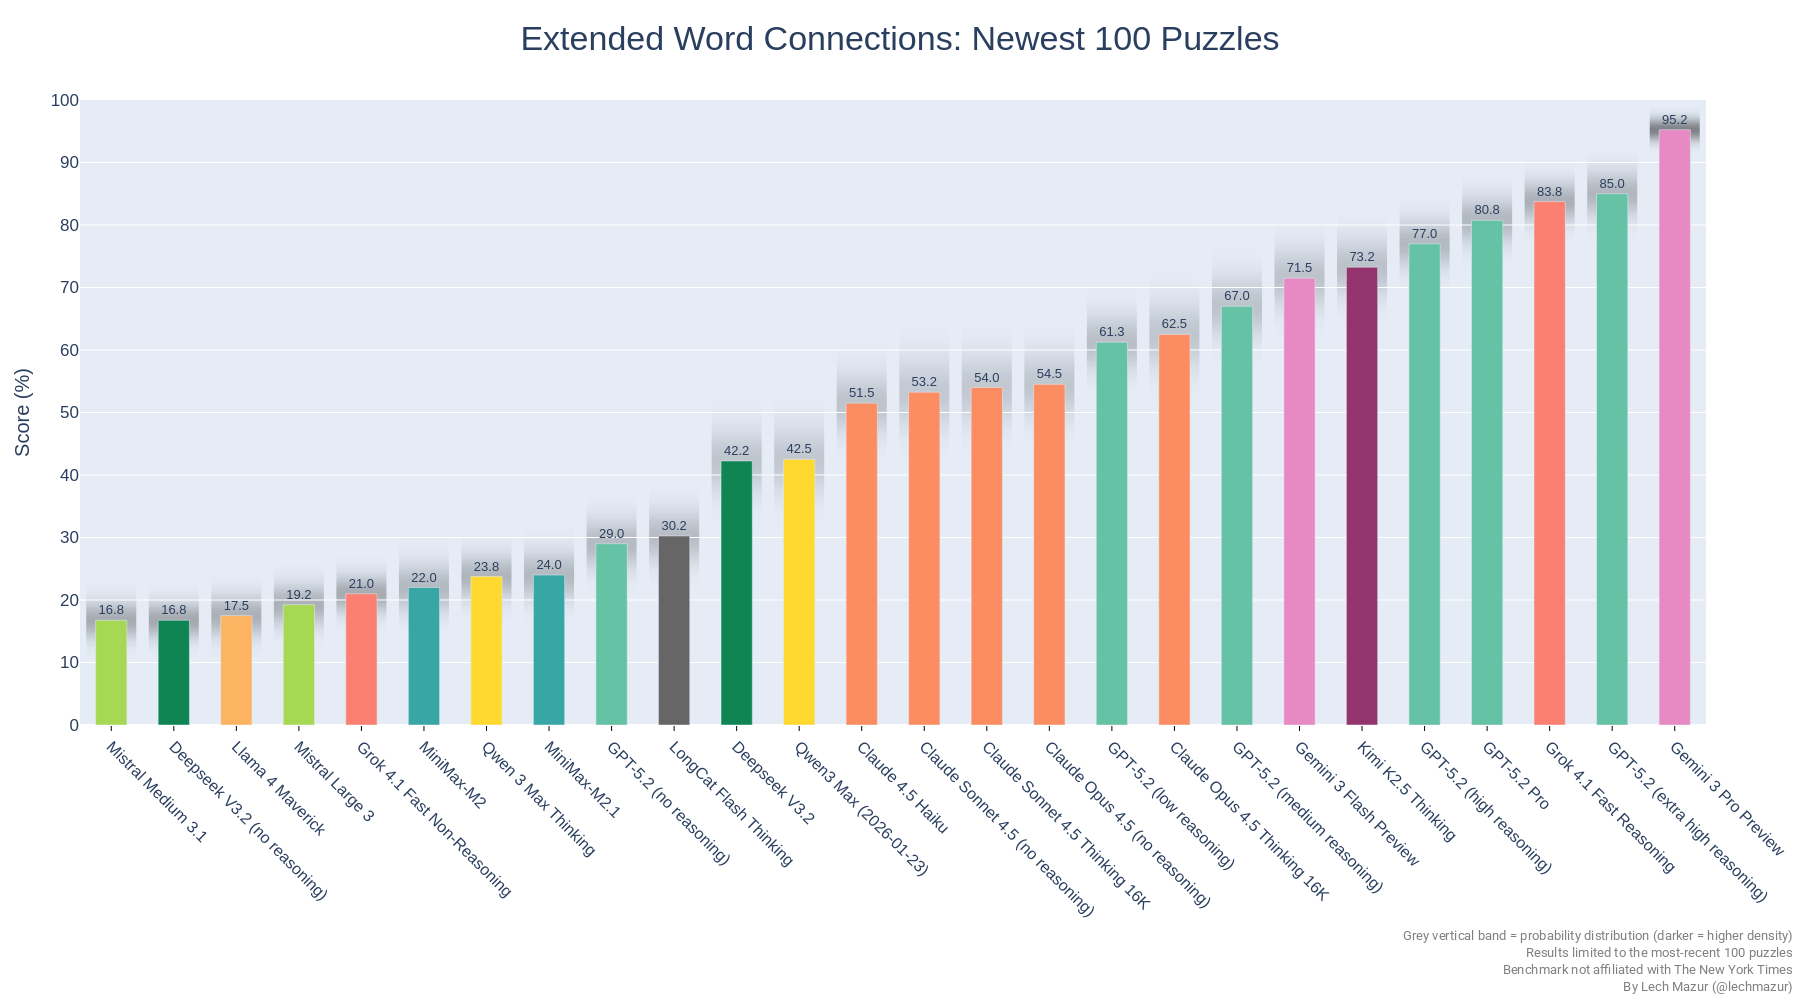
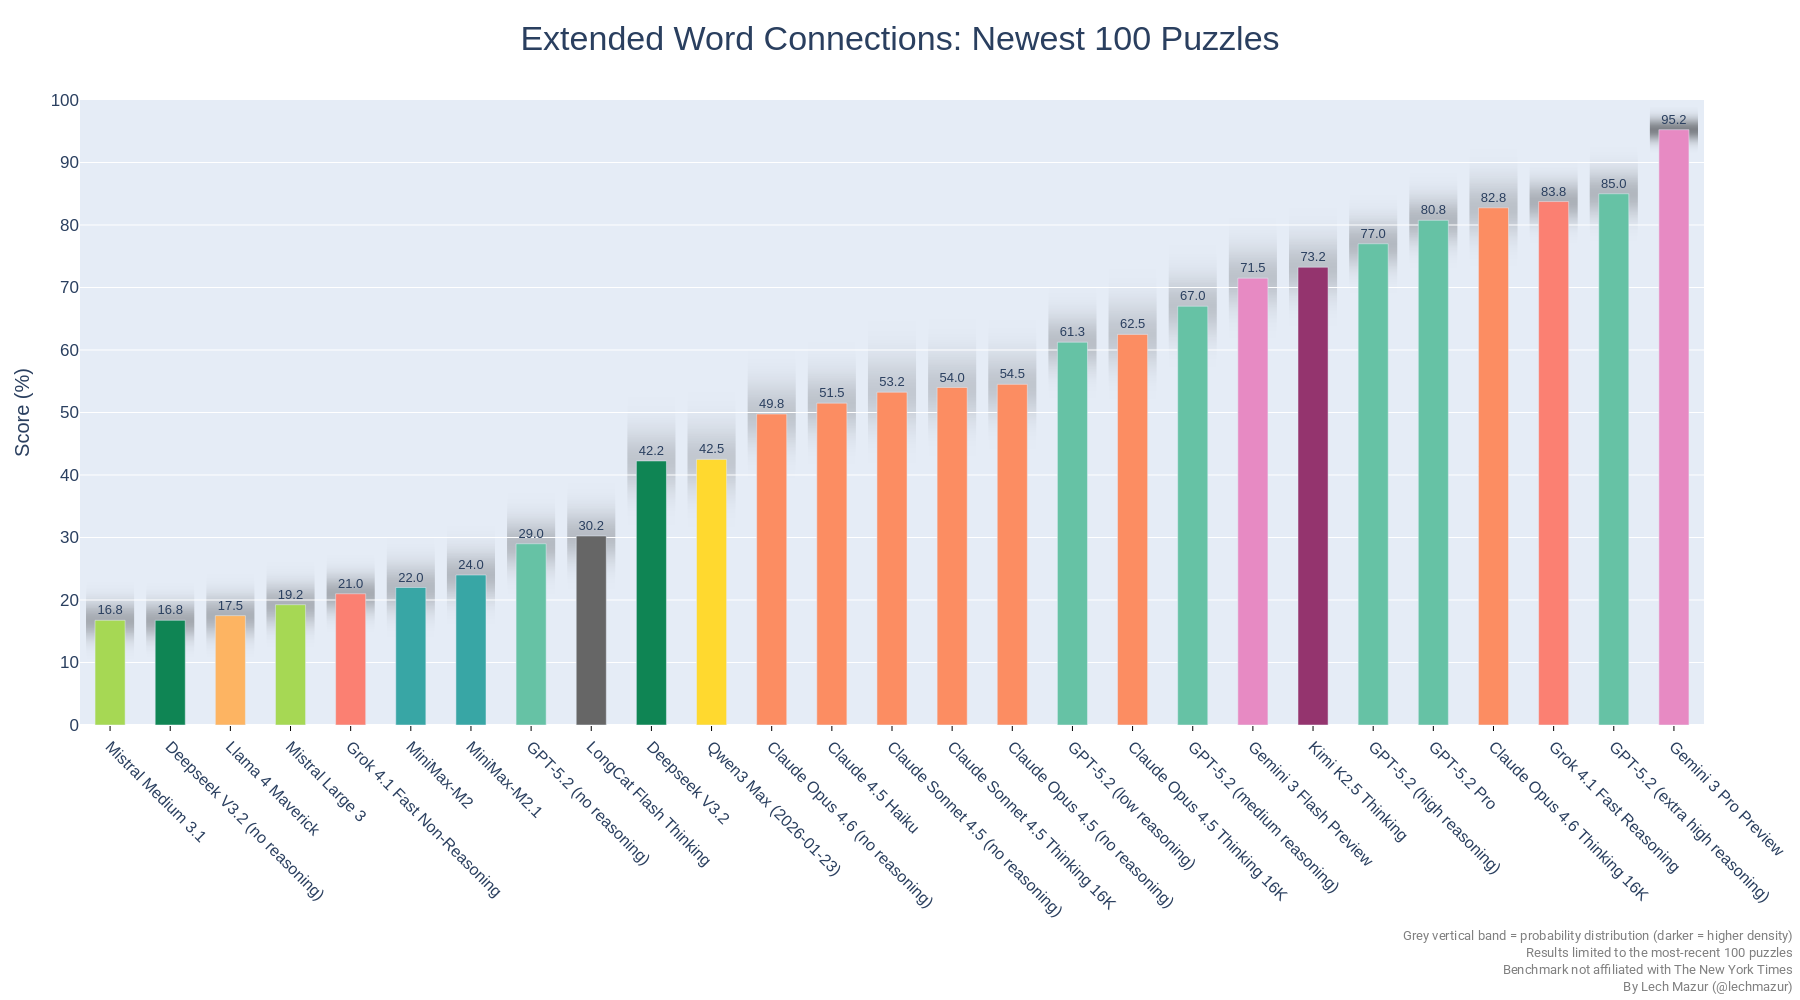
Claude Opus 4.6 added

diff --git a/README.md b/README.md
@@ -12,6 +12,8 @@ As of Feb 4, 2025, there is a new version of the benchmark. The standard NYT Con
 
 |Rank|Model|Score %|#Puzzles|
 |---:|-----|------:|-------:|
+|Rank|Model|Score %|#Puzzles|
+|---:|-----|------:|-------:|
 |1|Gemini 3 Pro Preview|96.3|940|
 |2|Sherlock Think Alpha|92.4|759|
 |3|Grok 4 Fast Reasoning|92.1|759|
@@ -24,130 +26,127 @@ As of Feb 4, 2025, there is a new version of the benchmark. The standard NYT Con
 |10|GPT-5.2 Pro|85.7|940|
 |11|GPT-5 Pro|83.9|759|
 |12|o1-pro (medium reasoning)|82.5|651|
-|13|o3 (high reasoning)|78.6|759|
-|14|Kimi K2.5 Thinking|78.3|940|
-|15|GPT-5.2 (high reasoning)|77.5|940|
-|16|GPT-5 (high reasoning)|77.0|759|
-|17|o4-mini (high reasoning)|73.6|759|
-|18|o3 (medium reasoning)|73.0|759|
-|19|GPT-5 (medium reasoning)|72.2|759|
-|20|GPT-5.2 (medium reasoning)|71.4|940|
-|21|o1 (medium reasoning)|70.8|651|
-|22|GPT-5.1 (high reasoning)|69.9|759|
-|23|o4-mini (medium reasoning)|68.8|651|
-|24|GPT-5 mini (medium reasoning)|66.9|759|
-|25|GPT-5.2 (low reasoning)|66.7|940|
-|26|GPT-5 (low reasoning)|65.4|759|
-|27|GPT-5.1 (medium reasoning)|62.7|759|
-|28|Claude Opus 4.5 Thinking 16K|62.6|940|
-|29|o3-mini (high reasoning)|61.4|651|
-|30|Claude Opus 4.5 (no reasoning)|60.3|940|
-|31|Claude Opus 4.1 Thinking 16K|58.8|759|
-|32|DeepSeek V3.1 Reasoner|57.7|759|
-|33|Gemini 2.5 Pro|57.6|759|
-|34|Kimi K2 Thinking 64K|57.3|924|
-|35|Qwen 3 235B A22B|54.3|759|
-|36|Gemini 2.5 Pro Exp 03-25|54.1|651|
-|37|GLM-4.7|53.6|360|
-|38|o3-mini (medium reasoning)|53.6|651|
-|39|Deepseek V3.2|50.2|940|
-|40|Claude Opus 4 Thinking 16K|49.7|759|
-|41|Claude Sonnet 4.5 Thinking 16K|49.3|940|
-|42|DeepSeek R1 05/28|48.6|759|
-|43|Claude Sonnet 4.5 (no reasoning)|47.4|940|
-|44|Qwen 3 235B A22B 25-07 Think|46.2|759|
-|45|Gemini 2.5 Pro Preview 05-06|42.5|651|
-|46|Qwen3 Max (2026-01-23)|41.8|940|
-|47|Claude Sonnet 4 Thinking 16K|40.3|759|
-|48|Claude Sonnet 4 Thinking 64K|39.6|651|
-|49|GPT-OSS-120B|38.7|759|
-|50|DeepSeek R1|38.6|651|
-|51|Claude Opus 4.1 (no reasoning)|37.1|759|
-|52|Qwen 3 30B A3B|36.6|759|
-|53|Qwen 3 32B|35.8|759|
-|54|Qwen 3 30B A3B 25-07 Thinking|35.5|759|
-|55|Claude Opus 4 (no reasoning)|34.4|759|
-|56|GPT-4.5 Preview|34.2|651|
-|57|Claude 3.7 Sonnet Thinking 16K|33.6|651|
-|58|Qwen 3 Next 80B A3B Thinking|32.9|759|
-|59|Qwen QwQ-32B 16K|31.4|651|
-|60|LongCat Flash Thinking|31.0|940|
-|61|Grok 3 Mini Beta (high)|30.2|759|
-|62|GLM-4.5|30.2|759|
-|63|GPT-5.2 (no reasoning)|28.1|940|
-|64|GPT-5 (minimal reasoning)|27.3|759|
-|65|MiniMax-M2|27.0|940|
-|66|o1-mini|26.9|651|
-|67|Claude Sonnet 4 (no reasoning)|26.6|759|
-|68|Grok 3 Mini Beta (low)|26.0|651|
-|69|Claude 4.5 Haiku|25.9|940|
-|70|Quasar Alpha|25.4|651|
-|71|Cohere Command A Reasoning 16K|25.3|759|
-|72|Gemini 2.5 Flash|25.2|759|
-|73|Sherlock Dash Alpha|25.1|759|
-|74|Grok 4.1 Fast Non-Reasoning|25.0|940|
-|75|Grok 4 Fast Non-Reasoning|24.9|759|
-|76|GPT-4o Mar 2025|24.5|759|
-|77|GLM-4.6|24.2|759|
-|78|Qwen 3 Max Thinking|24.1|940|
-|79|Qwen 3 Max Preview|23.9|759|
-|80|Kimi K2-0905|23.6|759|
-|81|Gemini 2.0 Flash Think Exp 01-21|23.1|649|
-|82|GPT-4.1|22.8|759|
-|83|Sonoma Dusk Alpha|22.8|759|
-|84|MiniMax-M2.1|22.7|940|
-|85|GPT-4o Feb 2025|22.7|651|
-|86|GPT-5.1 (no reasoning)|22.1|759|
-|87|Polaris Alpha|21.8|759|
-|88|Gemini 2.0 Pro Exp 02-05|21.7|651|
-|89|DeepSeek V3.1 Non-Think|21.6|759|
-|90|MiniMax-M1|21.3|688|
-|91|Kimi K2|19.8|759|
-|92|Qwen 3 235B A22B 25-07 Instruct|19.8|759|
-|93|Grok 3 Beta (no reasoning)|19.7|759|
-|94|Grok 2 12-12|19.2|651|
-|95|Gemini 1.5 Pro (Sept)|19.2|601|
-|96|Claude 3 Opus|19.2|650|
-|97|Claude 3.7 Sonnet|19.2|651|
-|98|Gemini 2.0 Flash|18.8|651|
-|99|GPT-4o 2024-11-20|18.7|601|
-|100|Llama 4 Maverick|18.4|940|
-|101|Qwen 2.5 Max|18.0|651|
-|102|Deepseek V3.2 (no reasoning)|17.8|940|
-|103|GPT-4o 2024-08-06|17.8|601|
-|104|Claude 3.5 Sonnet 2024-10-22|17.7|651|
-|105|Llama 4 Scout|17.4|759|
-|106|Mistral Large 3|17.2|940|
-|107|DeepSeek V3-0324|16.8|759|
-|108|Llama 3.1 405B|16.2|651|
-|109|Mistral Medium 3.1|15.5|940|
-|110|DeepSeek V3|15.1|651|
-|111|Llama 3.3 70B|15.1|651|
-|112|Baidu Ernie 4.5 300B A47B|14.8|759|
-|113|GPT-4.1 mini|14.4|759|
-|114|LongCat Flash|13.9|660|
-|115|MiniMax-Text-01|13.8|759|
-|116|Cohere Command A|13.1|759|
-|117|Mistral Large 2|12.4|759|
-|118|Gemma 2 27B|12.2|651|
-|119|Gemma 3 27B|11.6|759|
-|120|Mistral Medium 3|11.5|759|
-|121|Mistral Small 3.1|11.4|651|
-|122|Mistral Small 3.2|11.2|759|
-|123|Qwen 2.5 72B|10.5|759|
-|124|Claude 3.5 Haiku|10.0|759|
-|125|Amazon Nova Pro|9.9|759|
-|126|Microsoft Phi-4|9.9|759|
-|127|GPT-4o mini|9.7|759|
-|128|Mistral Small 3|8.9|601|
-|129|GPT-4.1 nano|8.1|759|
-|130|GLM4-32B-0414|7.6|759|
-|131|Claude 3 Haiku|2.2|601|
-
-
-
-
-
+|13|Claude Opus 4.6 Thinking 16K|81.7|940|
+|14|o3 (high reasoning)|78.6|759|
+|15|Kimi K2.5 Thinking|78.3|940|
+|16|GPT-5.2 (high reasoning)|77.5|940|
+|17|GPT-5 (high reasoning)|77.0|759|
+|18|o4-mini (high reasoning)|73.6|759|
+|19|o3 (medium reasoning)|73.0|759|
+|20|GPT-5 (medium reasoning)|72.2|759|
+|21|GPT-5.2 (medium reasoning)|71.4|940|
+|22|o1 (medium reasoning)|70.8|651|
+|23|GPT-5.1 (high reasoning)|69.9|759|
+|24|o4-mini (medium reasoning)|68.8|651|
+|25|GPT-5 mini (medium reasoning)|66.9|759|
+|26|GPT-5.2 (low reasoning)|66.7|940|
+|27|GPT-5 (low reasoning)|65.4|759|
+|28|GPT-5.1 (medium reasoning)|62.7|759|
+|29|Claude Opus 4.5 Thinking 16K|62.6|940|
+|30|o3-mini (high reasoning)|61.4|651|
+|31|Claude Opus 4.5 (no reasoning)|60.3|940|
+|32|Claude Opus 4.1 Thinking 16K|58.8|759|
+|33|DeepSeek V3.1 Reasoner|57.7|759|
+|34|Gemini 2.5 Pro|57.6|759|
+|35|Kimi K2 Thinking 64K|57.3|924|
+|36|Claude Opus 4.6 (no reasoning)|56.7|940|
+|37|Qwen 3 235B A22B|54.3|759|
+|38|Gemini 2.5 Pro Exp 03-25|54.1|651|
+|39|o3-mini (medium reasoning)|53.6|651|
+|40|Deepseek V3.2|50.2|940|
+|41|Claude Opus 4 Thinking 16K|49.7|759|
+|42|Claude Sonnet 4.5 Thinking 16K|49.3|940|
+|43|GLM-4.7|49.2|672|
+|44|DeepSeek R1 05/28|48.6|759|
+|45|Claude Sonnet 4.5 (no reasoning)|47.4|940|
+|46|Qwen 3 235B A22B 25-07 Think|46.2|759|
+|47|Gemini 2.5 Pro Preview 05-06|42.5|651|
+|48|Qwen3 Max (2026-01-23)|41.8|940|
+|49|Claude Sonnet 4 Thinking 16K|40.3|759|
+|50|Claude Sonnet 4 Thinking 64K|39.6|651|
+|51|GPT-OSS-120B|38.7|759|
+|52|DeepSeek R1|38.6|651|
+|53|Claude Opus 4.1 (no reasoning)|37.1|759|
+|54|Qwen 3 30B A3B|36.6|759|
+|55|Qwen 3 32B|35.8|759|
+|56|Qwen 3 30B A3B 25-07 Thinking|35.5|759|
+|57|Claude Opus 4 (no reasoning)|34.4|759|
+|58|GPT-4.5 Preview|34.2|651|
+|59|Claude 3.7 Sonnet Thinking 16K|33.6|651|
+|60|Qwen 3 Next 80B A3B Thinking|32.9|759|
+|61|Qwen QwQ-32B 16K|31.4|651|
+|62|LongCat Flash Thinking|31.0|940|
+|63|Grok 3 Mini Beta (high)|30.2|759|
+|64|GLM-4.5|30.2|759|
+|65|GPT-5.2 (no reasoning)|28.1|940|
+|66|GPT-5 (minimal reasoning)|27.3|759|
+|67|MiniMax-M2|27.0|940|
+|68|o1-mini|26.9|651|
+|69|Claude Sonnet 4 (no reasoning)|26.6|759|
+|70|Grok 3 Mini Beta (low)|26.0|651|
+|71|Claude 4.5 Haiku|25.9|940|
+|72|Quasar Alpha|25.4|651|
+|73|Cohere Command A Reasoning 16K|25.3|759|
+|74|Gemini 2.5 Flash|25.2|759|
+|75|Sherlock Dash Alpha|25.1|759|
+|76|Grok 4.1 Fast Non-Reasoning|25.0|940|
+|77|Grok 4 Fast Non-Reasoning|24.9|759|
+|78|GPT-4o Mar 2025|24.5|759|
+|79|GLM-4.6|24.2|759|
+|80|Qwen 3 Max Thinking|24.1|940|
+|81|Qwen 3 Max Preview|23.9|759|
+|82|Kimi K2-0905|23.6|759|
+|83|Gemini 2.0 Flash Think Exp 01-21|23.1|649|
+|84|GPT-4.1|22.8|759|
+|85|Sonoma Dusk Alpha|22.8|759|
+|86|MiniMax-M2.1|22.7|940|
+|87|GPT-4o Feb 2025|22.7|651|
+|88|GPT-5.1 (no reasoning)|22.1|759|
+|89|Polaris Alpha|21.8|759|
+|90|Gemini 2.0 Pro Exp 02-05|21.7|651|
+|91|DeepSeek V3.1 Non-Think|21.6|759|
+|92|MiniMax-M1|21.3|688|
+|93|Kimi K2|19.8|759|
+|94|Qwen 3 235B A22B 25-07 Instruct|19.8|759|
+|95|Grok 3 Beta (no reasoning)|19.7|759|
+|96|Grok 2 12-12|19.2|651|
+|97|Gemini 1.5 Pro (Sept)|19.2|601|
+|98|Claude 3 Opus|19.2|650|
+|99|Claude 3.7 Sonnet|19.2|651|
+|100|Gemini 2.0 Flash|18.8|651|
+|101|GPT-4o 2024-11-20|18.7|601|
+|102|Llama 4 Maverick|18.4|940|
+|103|Qwen 2.5 Max|18.0|651|
+|104|Deepseek V3.2 (no reasoning)|17.8|940|
+|105|GPT-4o 2024-08-06|17.8|601|
+|106|Claude 3.5 Sonnet 2024-10-22|17.7|651|
+|107|Llama 4 Scout|17.4|759|
+|108|Mistral Large 3|17.2|940|
+|109|DeepSeek V3-0324|16.8|759|
+|110|Llama 3.1 405B|16.2|651|
+|111|Mistral Medium 3.1|15.5|940|
+|112|DeepSeek V3|15.1|651|
+|113|Llama 3.3 70B|15.1|651|
+|114|Baidu Ernie 4.5 300B A47B|14.8|759|
+|115|GPT-4.1 mini|14.4|759|
+|116|LongCat Flash|13.9|660|
+|117|MiniMax-Text-01|13.8|759|
+|118|Cohere Command A|13.1|759|
+|119|Mistral Large 2|12.4|759|
+|120|Gemma 2 27B|12.2|651|
+|121|Gemma 3 27B|11.6|759|
+|122|Mistral Medium 3|11.5|759|
+|123|Mistral Small 3.1|11.4|651|
+|124|Mistral Small 3.2|11.2|759|
+|125|Qwen 2.5 72B|10.5|759|
+|126|Claude 3.5 Haiku|10.0|759|
+|127|Amazon Nova Pro|9.9|759|
+|128|Microsoft Phi-4|9.9|759|
+|129|GPT-4o mini|9.7|759|
+|130|Mistral Small 3|8.9|601|
+|131|GPT-4.1 nano|8.1|759|
+|132|GLM4-32B-0414|7.6|759|
+|133|Claude 3 Haiku|2.2|601|
 
 
 
@@ -257,6 +256,7 @@ This benchmark evaluates large language models (LLMs) using 436 NYT Connections 
 ---
 
 ## Updates
+- Feb 6, 2026: Claude Opus 4.6 added.
 - Feb 2, 2026: 940 total puzzles. Kimi K2.5 Thinking, Qwen3 Max (2026-01-23), MiniMax-M2.1, DeepSeek V3.2 added.
 - Dec 17, 2025: Gemini 3 Flash Preview added.
 - Dec 12, 2025: GPT 5.2 xhigh, GPT 5.2 Pro added.
